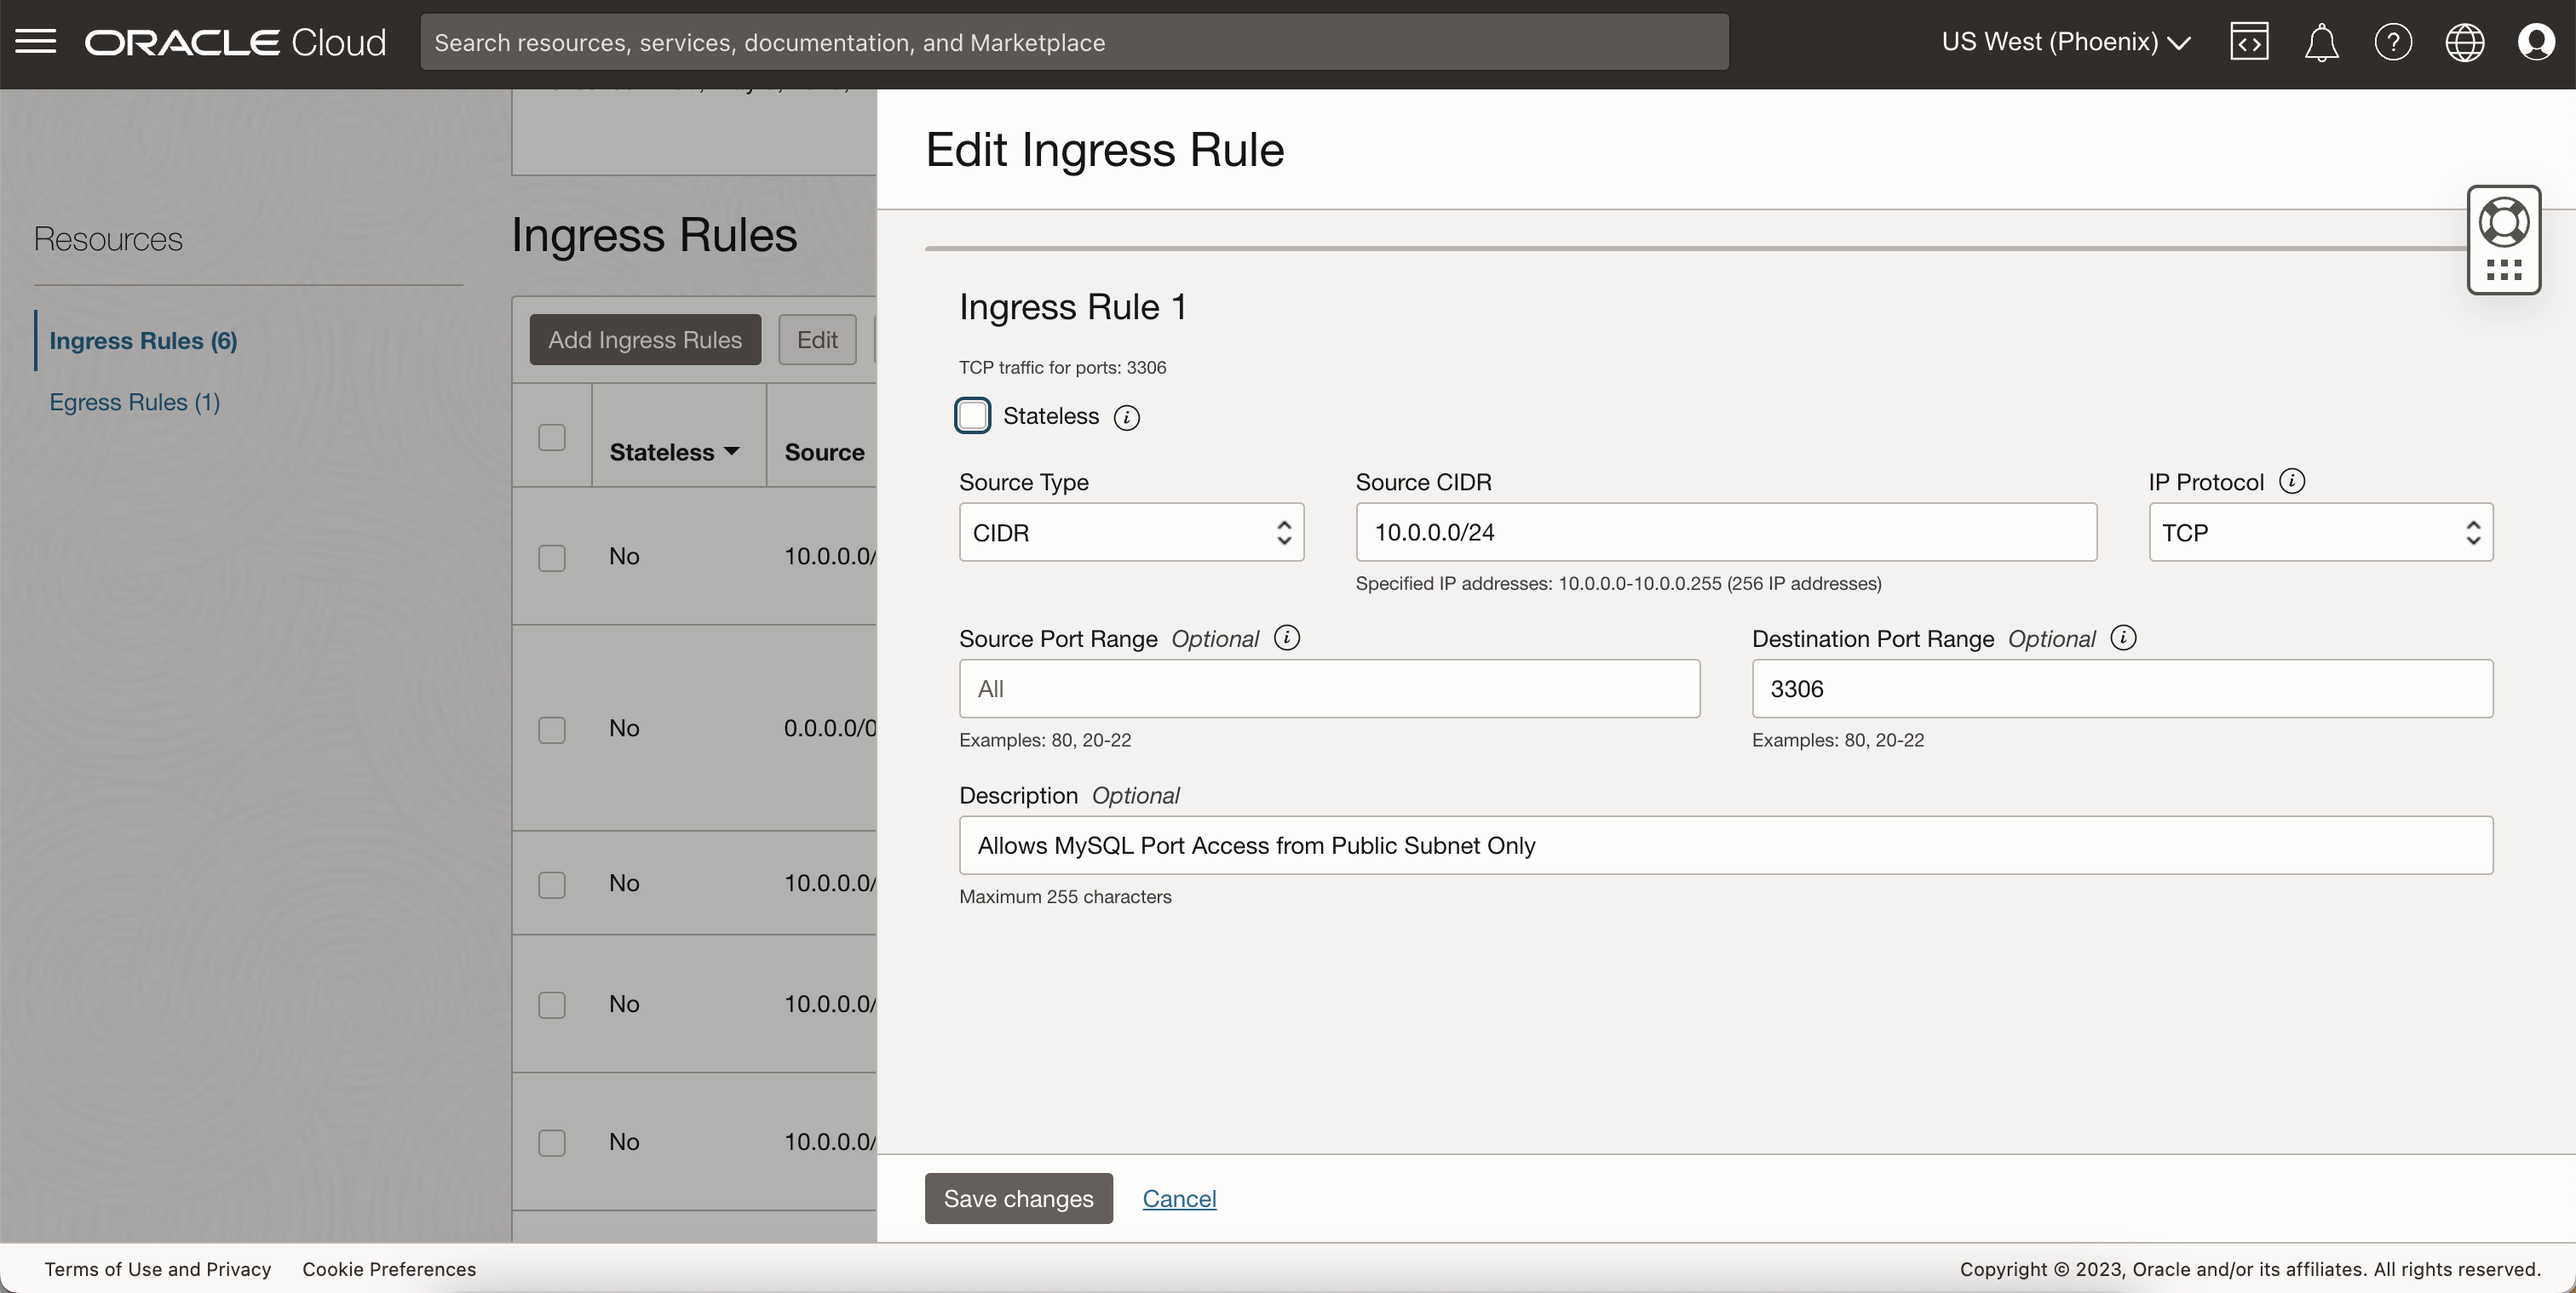
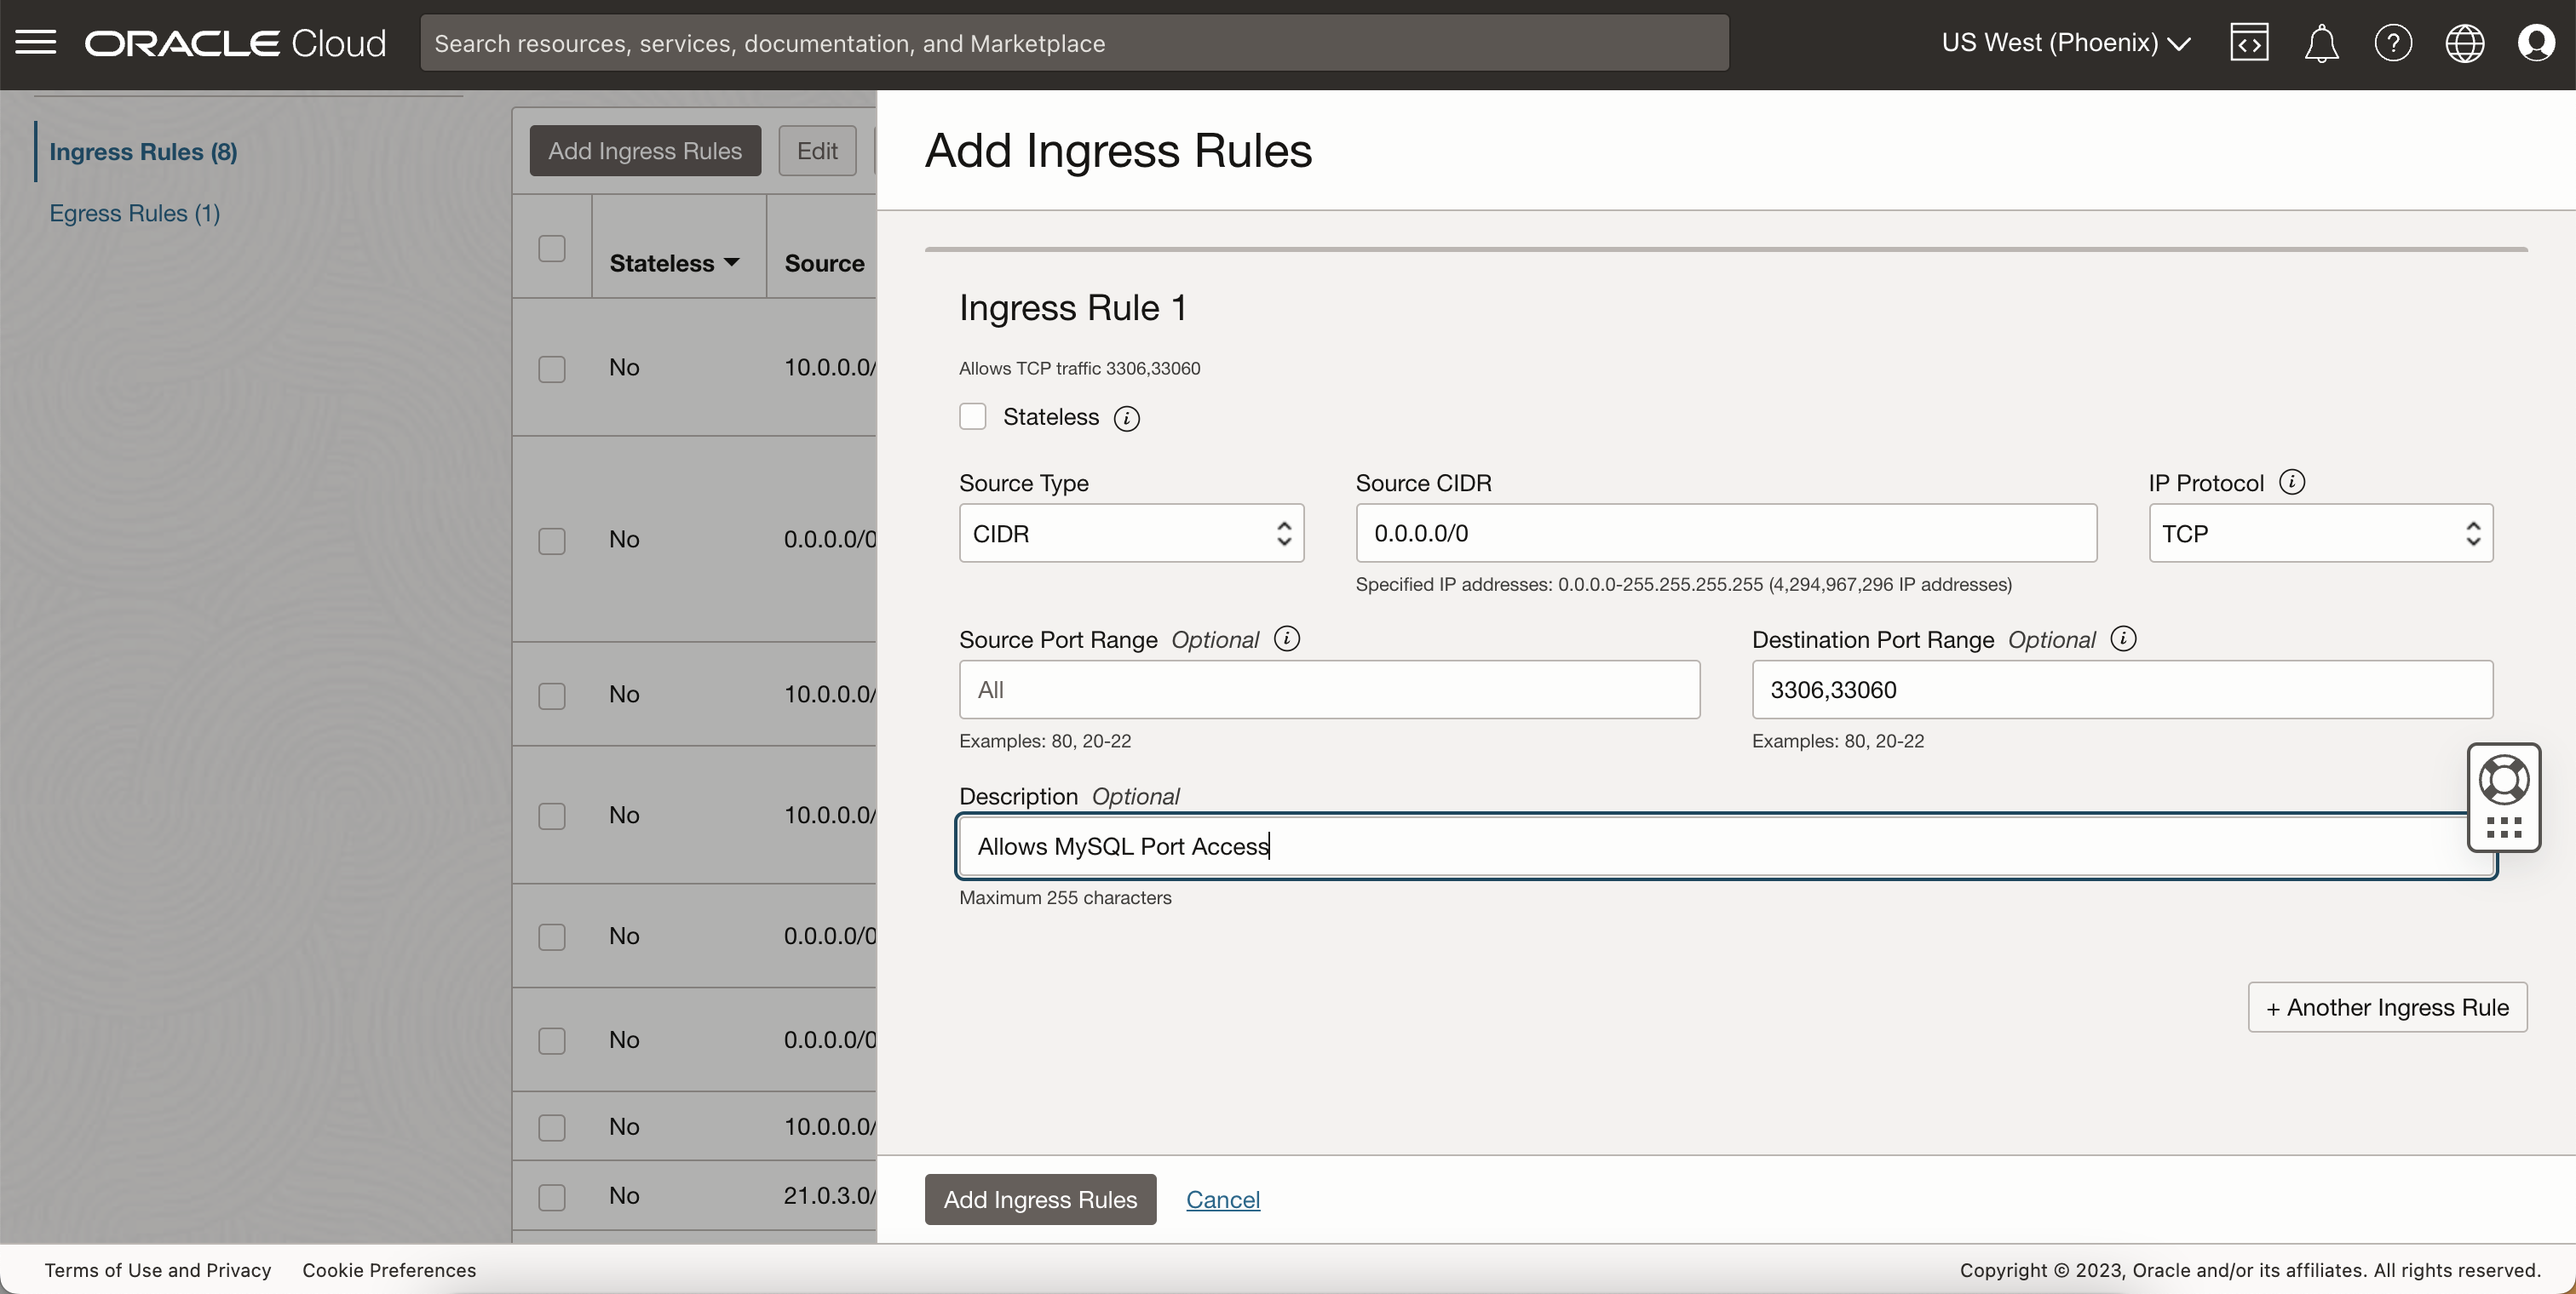
mysql,vcn lab changes

diff --git a/host-ha-website-oci-services/vcn/vcn.md b/host-ha-website-oci-services/vcn/vcn.md
@@ -102,7 +102,7 @@ In this lab, you will:
     - Destination Port: 80
     - Description: Allows HTTP Access from the Public Subnet Only
 
-  ![Image alt text](images/private-sl-httprule.png)
+  ![Image alt text](images/privatesl-httprule.png)
 
 5. Add another rule for MySQL connections
 
@@ -110,10 +110,10 @@ In this lab, you will:
 
     - Stateless: unchecked
     - Direction: Ingress
-    - Source CIDR: 10.0.0.0/24
+    - Source CIDR: 0.0.0.0/0
     - IP Protocol: TCP
     - Destination Port: 3306, 33060
-    - Description: Allows MySQL Port Access from Public Subnet Only
+    - Description: Allows MySQL Port Access
 
   ![Image alt text](images/private-sl-mysql.png)
 
@@ -139,7 +139,7 @@ In this lab, you will:
     - Destination Port: 80
     - Description: Allows HTTPs Access from the Public Internet
 
-    ![Image alt text](images/public-sl-httprule.png)
+    ![Image alt text](images/publicsl-httprule.png)
 
 8. Allow  SSH Access Into Your Public Subnet From a Specific Set of IP Addresses (optional)
     > **Note:** This step is a recommended best practice when implementing an actual architecture you do not want getting hacked or reached by unknown entities. Performing this step will only allow a certain set of IP addresses you define to reach your public subnet's resources.
